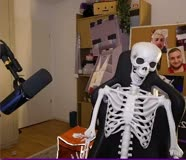
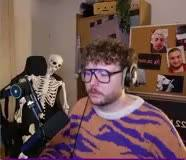
Fotos passen zur Stunde: mehrere Fotos pro Stunde, 30 Stunden korrigiert

diff --git a/index.html b/index.html
@@ -86,8 +86,8 @@ function parts(t){const o={};for(const p of bf.formatToParts(new Date(t*1000)))o
 let S=[],sel=null;
 function build(){
  const days={},tot={N:0,V:0,D:0,"-":0,n:0};
- for(const s of S){const q=parts(s.t);s.q=q;const d=days[q.day]||(days[q.day]=Array.from({length:24},()=>({N:0,V:0,D:0,"-":0,n:0,img:null})));
-  const c=d[q.h],L=s.p==="-"?[]:s.p.split("");c.n++;tot.n++;if(!L.length){c["-"]++;tot["-"]++}for(const l of L){c[l]++;tot[l]++}if(s.img)c.img=s;}
+ for(const s of S){const q=parts(s.t);s.q=q;const d=days[q.day]||(days[q.day]=Array.from({length:24},()=>({N:0,V:0,D:0,"-":0,n:0,imgs:null})));
+  const c=d[q.h],L=s.p==="-"?[]:s.p.split("");c.n++;tot.n++;if(!L.length){c["-"]++;tot["-"]++}for(const l of L){c[l]++;tot[l]++}if(s.img)(c.imgs=c.imgs||[]).push(s);}
  return {days,tot};
 }
 function render(){
@@ -108,16 +108,18 @@ function render(){
    g+=`<span class="d">${wd[d.getDay()]} ${f2(d.getDate())}.${f2(d.getMonth()+1)}.</span>`;
    for(let h=0;h<24;h++){const c=row&&row[h];let k="X",t="keine Messung";
     let st="";
-    if(c&&c.n){let pr=["N","V","D"].filter(l=>c[l]>=c.n/3);if(!pr.length)pr=[["N","V","D","-"].reduce((a,b)=>c[b]>c[a]?b:a)];
+    if(c&&c.n){let pr=["N","V","D"].filter(l=>c[l]>=c.n/3);if(!pr.length)pr=[["N","V","D","-"].reduce((a,b)=>c[b]>c[a]?b:a)];c.pr=pr;
      t=pr.map(l=>WHO[l]||"niemand in der Cam").join(" + ");
      if(pr.length==1)k=pr[0]==="-"?"A":pr[0];else{k="M";const col={N:"--n",V:"--v",D:"--d"},w=100/pr.length;st=` style="background:linear-gradient(90deg,${pr.map((l,i)=>`var(${col[l]}) ${i*w}% ${(i+1)*w}%`).join(",")})"`}}
-    g+=`<span class="c k-${k}${c&&c.img?" ph":""}"${st} data-day="${day}" data-h="${h}" title="${day}, ${h}:00 Uhr: ${t}"></span>`}}}
+    g+=`<span class="c k-${k}${c&&c.imgs?" ph":""}"${st} data-day="${day}" data-h="${h}" title="${day}, ${h}:00 Uhr: ${t}"></span>`}}}
  document.getElementById("grid").innerHTML=g;window._days=days;
  if(sel)show(sel[0],sel[1]);else rand();
 }
-function show(day,h){const c=window._days[day]&&window._days[day][h];if(!c||!c.img)return;sel=[day,h];
- const s=c.img,d=new Date(day+"T12:00:00");
- document.getElementById("shot").src=`proof/${day}/${f2(h)}.jpg`;
+function pick(c){const want=new Set(c.pr||[]),lt=s=>s.p==="-"?["-"]:s.p.split("");let best=null,bs=-1;
+ for(const s of c.imgs){const L=lt(s),inter=L.filter(l=>want.has(l)).length,sc=inter*10-Math.abs(L.length-want.size);if(sc>bs){bs=sc;best=s}}return best}
+function show(day,h){const c=window._days[day]&&window._days[day][h];if(!c||!c.imgs)return;sel=[day,h];
+ const s=pick(c),d=new Date(day+"T12:00:00"),sl=Math.floor(s.q.m/20);
+ document.getElementById("shot").src=`proof/${day}/${f2(h)}${s.img===2?"-"+sl:""}.jpg`;
  document.getElementById("capT").textContent=s.p==="-"?"Niemand in der Cam":s.p.split("").map(l=>WHO[l]).join(" + ");
  document.getElementById("capS").textContent=`${wd[d.getDay()]} ${f2(d.getDate())}.${f2(d.getMonth()+1)}., ${f2(h)}:${f2(s.q.m)} Uhr`;
  document.querySelectorAll(".c.sel").forEach(e=>e.classList.remove("sel"));

diff --git a/index.tpl.html b/index.tpl.html
@@ -40,8 +40,8 @@ function parts(t){const o={};for(const p of bf.formatToParts(new Date(t*1000)))o
 let S=[],sel=null;
 function build(){
  const days={},tot={N:0,V:0,D:0,"-":0,n:0};
- for(const s of S){const q=parts(s.t);s.q=q;const d=days[q.day]||(days[q.day]=Array.from({length:24},()=>({N:0,V:0,D:0,"-":0,n:0,img:null})));
-  const c=d[q.h],L=s.p==="-"?[]:s.p.split("");c.n++;tot.n++;if(!L.length){c["-"]++;tot["-"]++}for(const l of L){c[l]++;tot[l]++}if(s.img)c.img=s;}
+ for(const s of S){const q=parts(s.t);s.q=q;const d=days[q.day]||(days[q.day]=Array.from({length:24},()=>({N:0,V:0,D:0,"-":0,n:0,imgs:null})));
+  const c=d[q.h],L=s.p==="-"?[]:s.p.split("");c.n++;tot.n++;if(!L.length){c["-"]++;tot["-"]++}for(const l of L){c[l]++;tot[l]++}if(s.img)(c.imgs=c.imgs||[]).push(s);}
  return {days,tot};
 }
 function render(){
@@ -62,16 +62,18 @@ function render(){
    g+=`<span class="d">${wd[d.getDay()]} ${f2(d.getDate())}.${f2(d.getMonth()+1)}.</span>`;
    for(let h=0;h<24;h++){const c=row&&row[h];let k="X",t="keine Messung";
     let st="";
-    if(c&&c.n){let pr=["N","V","D"].filter(l=>c[l]>=c.n/3);if(!pr.length)pr=[["N","V","D","-"].reduce((a,b)=>c[b]>c[a]?b:a)];
+    if(c&&c.n){let pr=["N","V","D"].filter(l=>c[l]>=c.n/3);if(!pr.length)pr=[["N","V","D","-"].reduce((a,b)=>c[b]>c[a]?b:a)];c.pr=pr;
      t=pr.map(l=>WHO[l]||"niemand in der Cam").join(" + ");
      if(pr.length==1)k=pr[0]==="-"?"A":pr[0];else{k="M";const col={N:"--n",V:"--v",D:"--d"},w=100/pr.length;st=` style="background:linear-gradient(90deg,${pr.map((l,i)=>`var(${col[l]}) ${i*w}% ${(i+1)*w}%`).join(",")})"`}}
-    g+=`<span class="c k-${k}${c&&c.img?" ph":""}"${st} data-day="${day}" data-h="${h}" title="${day}, ${h}:00 Uhr: ${t}"></span>`}}}
+    g+=`<span class="c k-${k}${c&&c.imgs?" ph":""}"${st} data-day="${day}" data-h="${h}" title="${day}, ${h}:00 Uhr: ${t}"></span>`}}}
  document.getElementById("grid").innerHTML=g;window._days=days;
  if(sel)show(sel[0],sel[1]);else rand();
 }
-function show(day,h){const c=window._days[day]&&window._days[day][h];if(!c||!c.img)return;sel=[day,h];
- const s=c.img,d=new Date(day+"T12:00:00");
- document.getElementById("shot").src=`proof/${day}/${f2(h)}.jpg`;
+function pick(c){const want=new Set(c.pr||[]),lt=s=>s.p==="-"?["-"]:s.p.split("");let best=null,bs=-1;
+ for(const s of c.imgs){const L=lt(s),inter=L.filter(l=>want.has(l)).length,sc=inter*10-Math.abs(L.length-want.size);if(sc>bs){bs=sc;best=s}}return best}
+function show(day,h){const c=window._days[day]&&window._days[day][h];if(!c||!c.imgs)return;sel=[day,h];
+ const s=pick(c),d=new Date(day+"T12:00:00"),sl=Math.floor(s.q.m/20);
+ document.getElementById("shot").src=`proof/${day}/${f2(h)}${s.img===2?"-"+sl:""}.jpg`;
  document.getElementById("capT").textContent=s.p==="-"?"Niemand in der Cam":s.p.split("").map(l=>WHO[l]).join(" + ");
  document.getElementById("capS").textContent=`${wd[d.getDay()]} ${f2(d.getDate())}.${f2(d.getMonth()+1)}., ${f2(h)}:${f2(s.q.m)} Uhr`;
  document.querySelectorAll(".c.sel").forEach(e=>e.classList.remove("sel"));

diff --git a/pi/live.py b/pi/live.py
@@ -93,7 +93,8 @@ def save_proof_and_sample(repo, frame, person, best_sim, best_face):
     now_berlin = datetime.now(ZoneInfo("Europe/Berlin"))
     day, hh = now_berlin.strftime("%Y-%m-%d"), now_berlin.strftime("%H")
     proof_dir = os.path.join(repo, "proof", day)
-    proof_path = os.path.join(proof_dir, f"{hh}.jpg")
+    slot = now_berlin.minute // 20  # up to 3 photos per hour so the page can show one that matches the hour
+    proof_path = os.path.join(proof_dir, f"{hh}.jpg" if slot == 0 else f"{hh}-{slot}.jpg")
     saved_photo = False
     if not os.path.exists(proof_path):
         if person != "-" and best_face is not None:
@@ -113,7 +114,7 @@ def save_proof_and_sample(repo, frame, person, best_sim, best_face):
     samples_path = os.path.join(repo, "samples.jsonl")
     entry = {"t": int(time.time()), "p": person}
     if saved_photo:
-        entry["img"] = 1
+        entry["img"] = 1 if slot == 0 else 2
     with open(samples_path, "a", encoding="utf-8") as f:
         f.write(json.dumps(entry) + "\n")
         f.flush()
